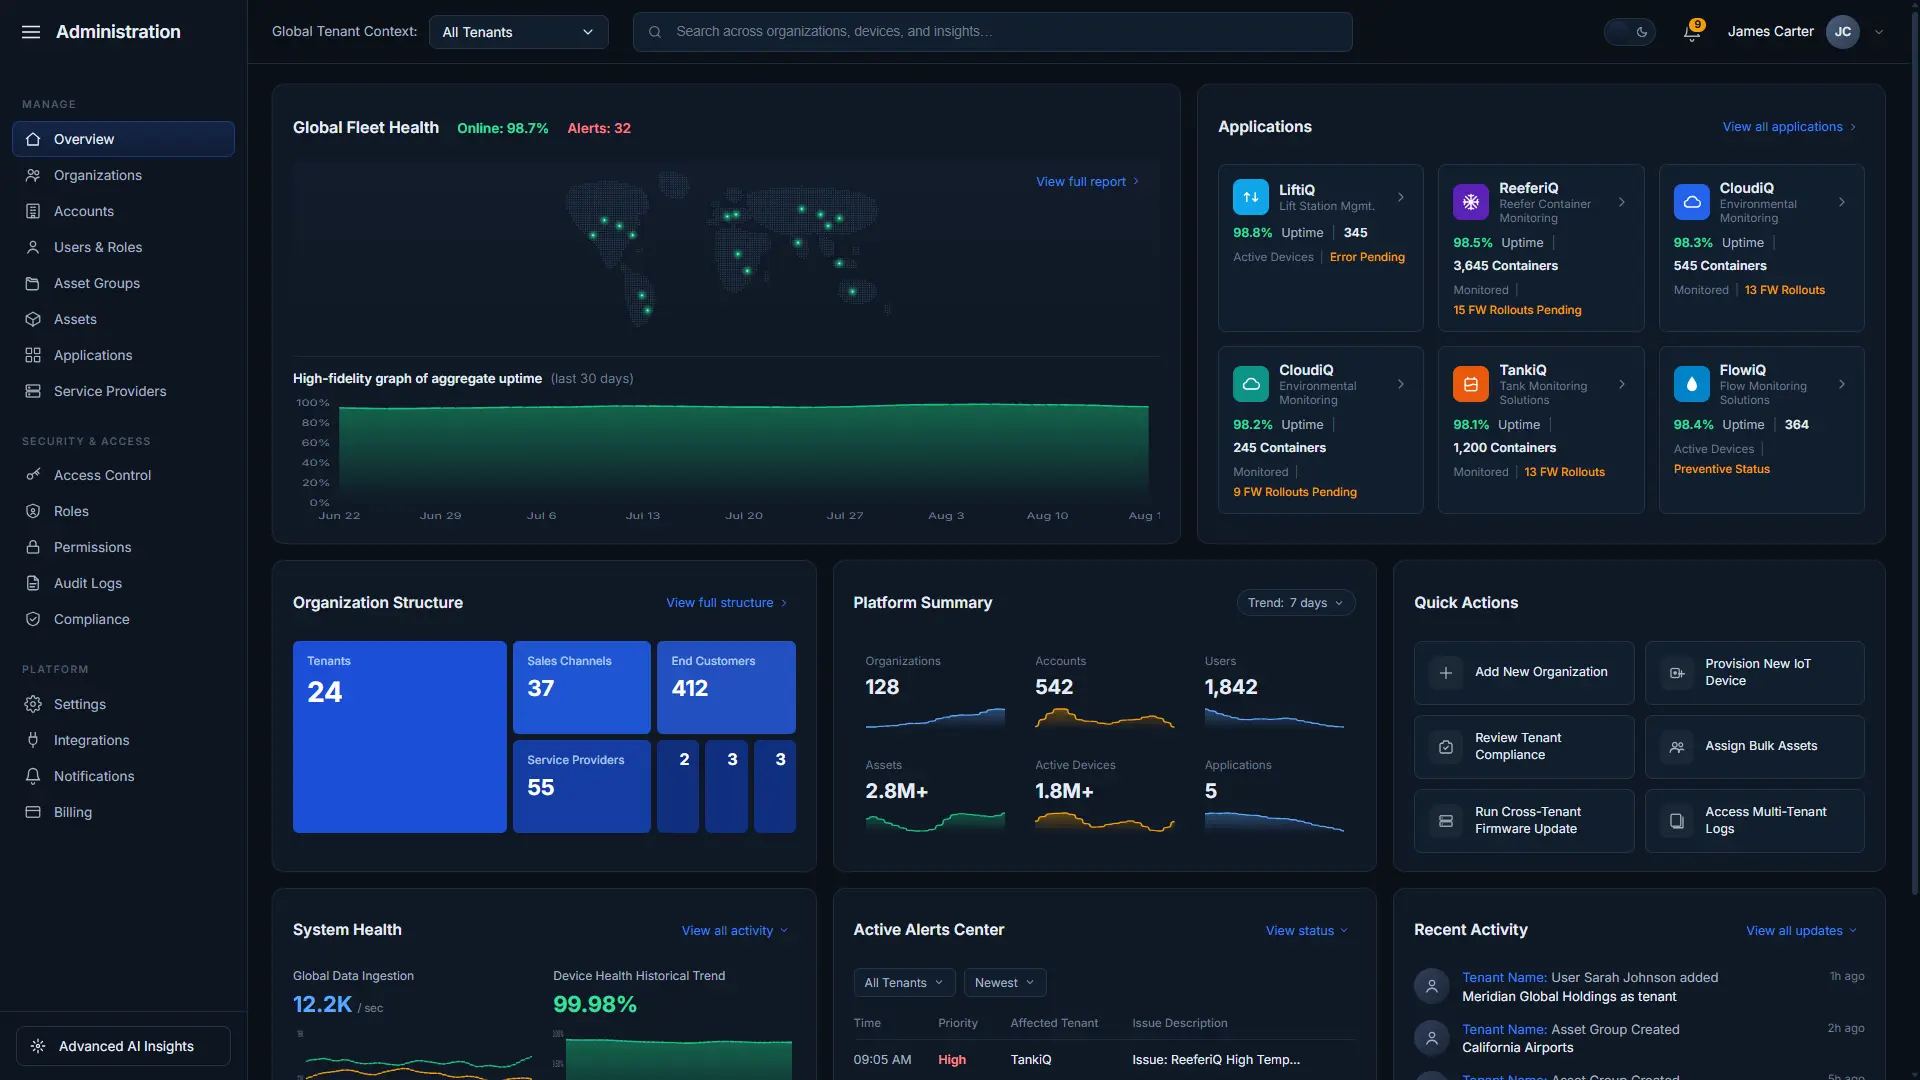
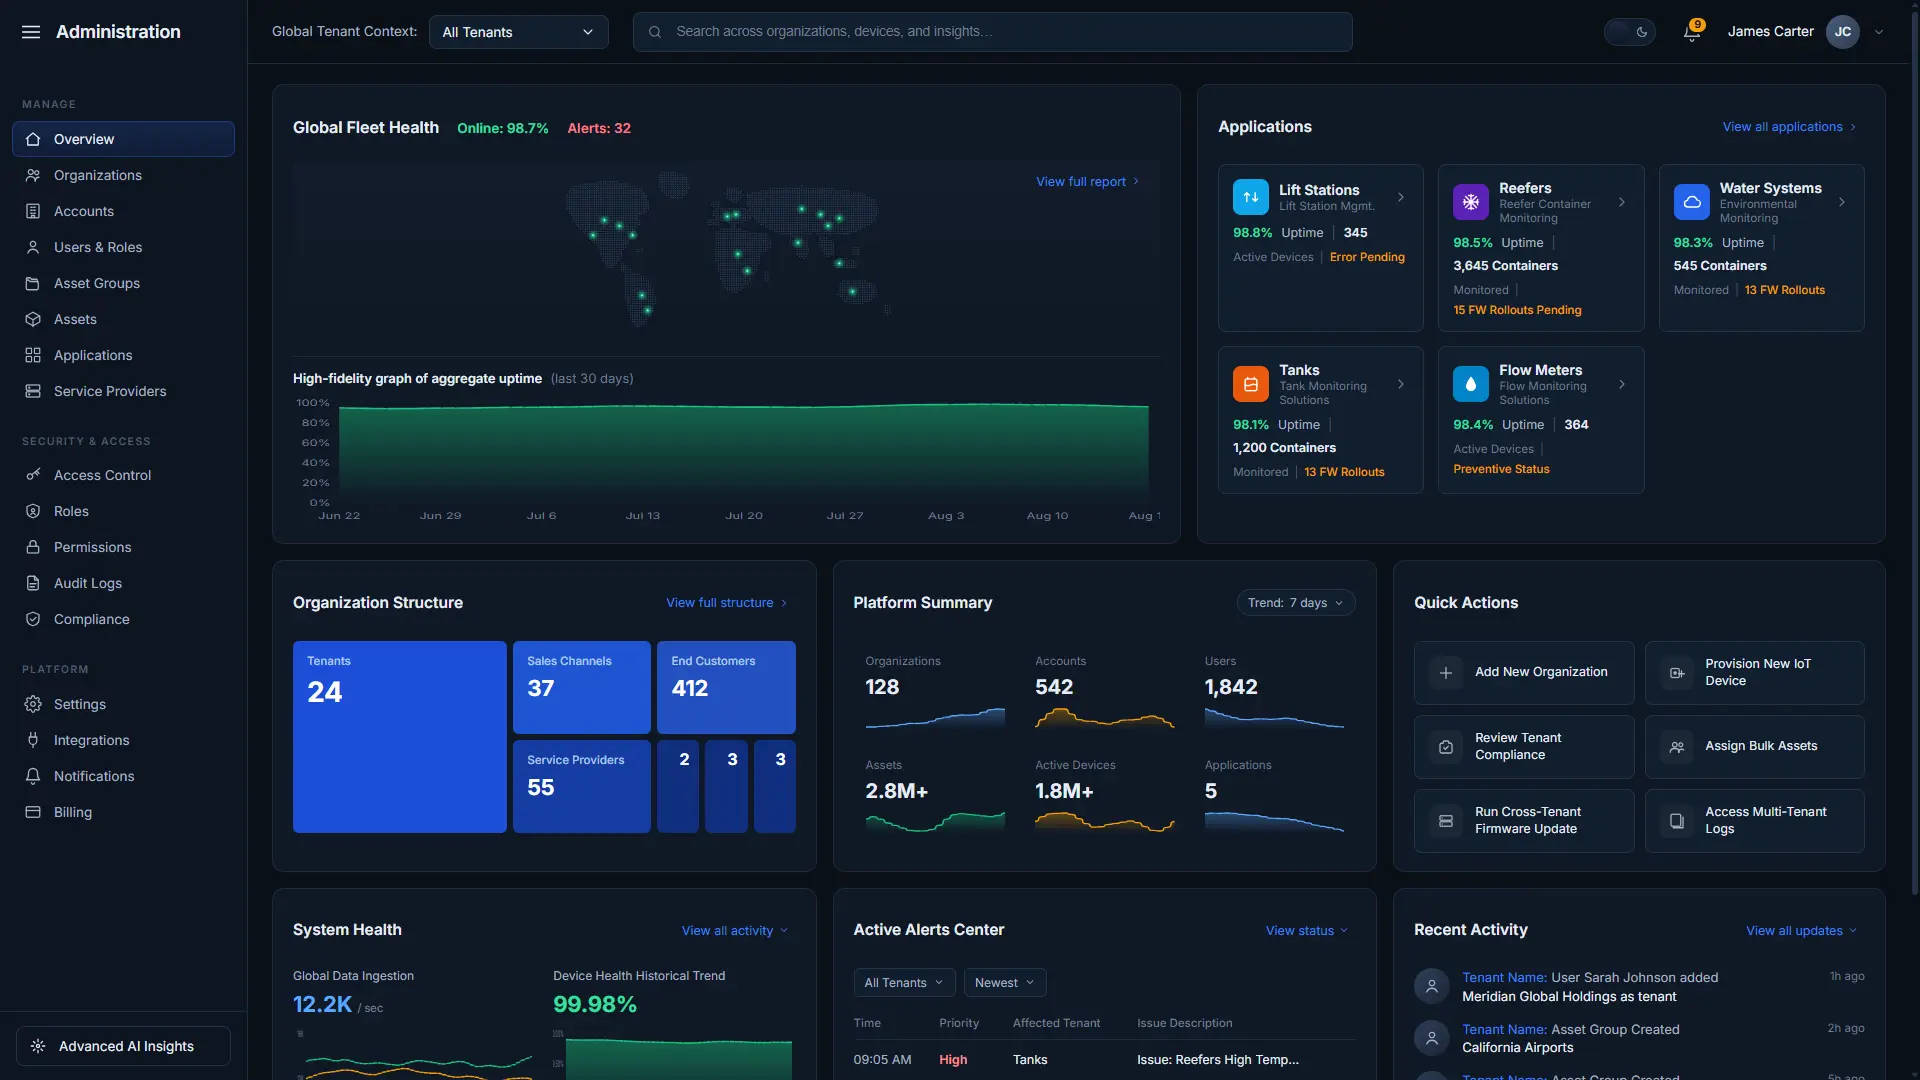
Add files via upload

diff --git a/index.html b/index.html
@@ -1102,7 +1102,9 @@
       <div class="carousel-stage">
         <div class="carousel-viewport">
           <div class="carousel-slide active" data-cap="The administration overview — fleet health, app uptime, org structure, and active alerts surfaced the moment an admin lands."><img decoding="async" src="assetiq-final-1.webp" alt="Platform Administration — final design, 1"></div>
-          <div class="carousel-slide" data-cap="Users and roles in one view — every person, the role they carry, and the organization they belong to, governed from a single screen."><img decoding="async" src="assetiq-final-2.webp" alt="Platform Administration — final design, 2"></div>
+          <div class="carousel-slide" data-cap="Accounts as a list — a whole organization's hierarchy flattened into one scannable table, with users, assets and devices counted at every level."><img decoding="async" src="assetiq-final-2.webp" alt="Platform Administration — final design, 2"></div>
+          <div class="carousel-slide" data-cap="The same accounts as an org tree — four levels from headquarters to subdivision, so even a deep hierarchy stays legible at a glance."><img decoding="async" src="assetiq-final-3.webp" alt="Platform Administration — final design, 3"></div>
+          <div class="carousel-slide" data-cap="Users and roles in one view — every person, the role they carry, and the organization they belong to, governed from a single screen."><img decoding="async" src="assetiq-final-4.webp" alt="Platform Administration — final design, 4"></div>
         </div>
         <button class="carousel-arrow prev" type="button" aria-label="Previous image"><svg viewBox="0 0 24 24" fill="none" stroke="currentColor" stroke-width="2" stroke-linecap="round" stroke-linejoin="round"><path d="m15 18-6-6 6-6"/></svg></button>
         <button class="carousel-arrow next" type="button" aria-label="Next image"><svg viewBox="0 0 24 24" fill="none" stroke="currentColor" stroke-width="2" stroke-linecap="round" stroke-linejoin="round"><path d="m9 18 6-6-6-6"/></svg></button>
